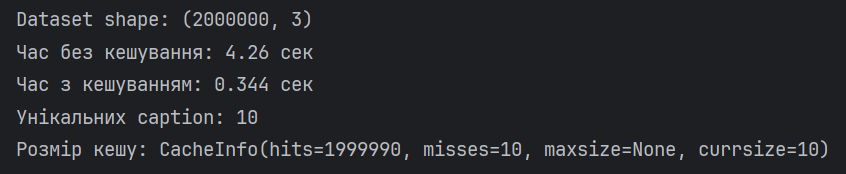
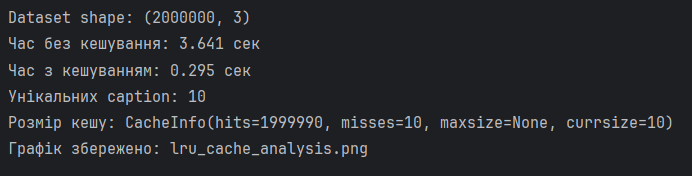
edit pr2

diff --git a/pr2/main.py b/pr2/main.py
@@ -2,12 +2,12 @@ import pandas as pd
 import numpy as np
 import time
 import re
+import matplotlib.pyplot as plt
+import matplotlib.patches as mpatches
 from functools import lru_cache
 
 # 1. Генерація LAION-like датасету (2 млн записів)
-
 np.random.seed(42)
-
 unique_captions = [
     "A dog playing in the park",
     "A cat sitting on the sofa",
@@ -22,17 +22,14 @@ unique_captions = [
 ]
 
 N = 2_000_000
-
 df = pd.DataFrame({
     "image_url": np.random.randint(1000000, 9999999, size=N).astype(str),
     "caption": np.random.choice(unique_captions, size=N),
     "similarity_score": np.random.random(size=N)
 })
-
 print("Dataset shape:", df.shape)
 
 # 2. Дорога текстова трансформація (імітація NLP-обробки)
-
 def expensive_text_processing(text):
     text = text.lower()
     text = re.sub(r"[^a-z\s]", "", text)
@@ -41,15 +38,12 @@ def expensive_text_processing(text):
     return "_".join(unique_words)
 
 # 3. Без кешування
-
 start = time.time()
 df["processed_no_cache"] = df["caption"].apply(expensive_text_processing)
-end = time.time()
-
-print("Час без кешування:", round(end - start, 3), "сек")
+time_no_cache = round(time.time() - start, 3)
+print("Час без кешування:", time_no_cache, "сек")
 
 # 4. З кешуванням (lru_cache)
-
 @lru_cache(maxsize=None)
 def cached_text_processing(text):
     text = text.lower()
@@ -60,11 +54,81 @@ def cached_text_processing(text):
 
 start = time.time()
 df["processed_cached"] = df["caption"].apply(cached_text_processing)
-end = time.time()
+time_cached = round(time.time() - start, 3)
+print("Час з кешуванням:", time_cached, "сек")
 
-print("Час з кешуванням:", round(end - start, 3), "сек")
+cache_info = cached_text_processing.cache_info()
+unique_count = df["caption"].nunique()
+print("Унікальних caption:", unique_count)
+print("Розмір кешу:", cache_info)
 
-# 5. Перевірка кількості реальних викликів функції
+speedup = round(time_no_cache / time_cached, 1)
 
-print("Унікальних caption:", df["caption"].nunique())
-print("Розмір кешу:", cached_text_processing.cache_info())
+# Графіки
+plt.style.use("seaborn-v0_8-whitegrid")
+fig = plt.figure(figsize=(12, 12))
+fig.suptitle("Аналіз ефективності кешування LRU (LAION-like датасет, 2 млн рядків)",
+             fontsize=15, fontweight="bold", y=0.98)
+
+colors = {"no_cache": "#E74C3C", "cached": "#2ECC71", "neutral": "#3498DB"}
+
+# Графік 1: Порівняння часу виконання (бар-чарт)
+ax1 = fig.add_subplot(2, 2, 1)
+bars = ax1.bar(
+    ["Без кешування", "З LRU-кешем"],
+    [time_no_cache, time_cached],
+    color=[colors["no_cache"], colors["cached"]],
+    width=0.5, edgecolor="white", linewidth=1.5
+)
+for bar, val in zip(bars, [time_no_cache, time_cached]):
+    ax1.text(bar.get_x() + bar.get_width() / 2, bar.get_height() + 0.05,
+             f"{val} с", ha="center", va="bottom", fontweight="bold", fontsize=11)
+ax1.set_title("Час виконання (секунди)", fontweight="bold")
+ax1.set_ylabel("Секунди")
+ax1.set_ylim(0, time_no_cache * 1.25)
+ax1.annotate(f"Прискорення: ×{speedup}", xy=(0.5, 0.92),
+             xycoords="axes fraction", ha="center",
+             fontsize=11, color="#8E44AD", fontweight="bold")
+
+# Графік 2: Горизонтальний бар — hits vs misses
+ax2 = fig.add_subplot(2, 2, 2)
+hits   = cache_info.hits
+misses = cache_info.misses
+ax2.barh(["Cache Hits", "Cache Misses"], [hits, misses],
+         color=[colors["cached"], colors["no_cache"]],
+         edgecolor="white", linewidth=1.2)
+for i, val in enumerate([hits, misses]):
+    ax2.text(val + N * 0.01, i, f"{val:,}", va="center", fontweight="bold")
+ax2.set_title("Cache Hits vs Misses", fontweight="bold")
+ax2.set_xlabel("Кількість викликів")
+ax2.set_xlim(0, N * 1.15)
+
+# Графік 3: Розподіл similarity_score (гістограма)
+ax3 = fig.add_subplot(2, 2, 3)
+ax3.hist(df["similarity_score"], bins=60, color=colors["neutral"],
+         edgecolor="white", linewidth=0.4, alpha=0.85)
+ax3.axvline(df["similarity_score"].mean(), color="#E74C3C",
+            linestyle="--", linewidth=1.8, label=f'Mean: {df["similarity_score"].mean():.3f}')
+ax3.axvline(df["similarity_score"].median(), color="#F39C12",
+            linestyle=":", linewidth=1.8, label=f'Median: {df["similarity_score"].median():.3f}')
+ax3.set_title("Розподіл Similarity Score", fontweight="bold")
+ax3.set_xlabel("Similarity Score")
+ax3.set_ylabel("Кількість записів")
+ax3.legend(fontsize=9)
+
+# Графік 4: Частота кожного caption (горизонтальний бар)
+ax4 = fig.add_subplot(2, 2, 4)
+caption_counts = df["caption"].value_counts().sort_values()
+short_labels = [c.split()[0] + "…" + c.split()[-1] for c in caption_counts.index]
+bar_colors = plt.cm.RdYlGn(np.linspace(0.2, 0.8, len(caption_counts)))
+ax4.barh(short_labels, caption_counts.values, color=bar_colors, edgecolor="white")
+ax4.set_title("Частота унікальних Caption", fontweight="bold")
+ax4.set_xlabel("Кількість записів")
+expected = N / unique_count
+ax4.axvline(expected, color="red", linestyle="--", linewidth=1.5,
+            label=f"Очікувана: {expected:,.0f}")
+ax4.legend(fontsize=8)
+
+plt.tight_layout(rect=[0, 0, 1, 0.96])
+plt.savefig("lru_cache_analysis.png", dpi=150, bbox_inches="tight")
+print("Графік збережено: lru_cache_analysis.png")

diff --git a/pr2/README.md b/pr2/README.md
@@ -8,94 +8,174 @@
 
 ---
 
-### Теоретичні відомості
+## Теоретичні відомості
 
-При роботі з великими наборами даних (мільйони записів) метод `.apply()` може суттєво знижувати продуктивність, оскільки:
+### Кешування та `lru_cache`
 
-* викликає Python-функцію для кожного рядка;
-* не використовує векторизацію;
-* повторно виконує однакові обчислення для повторюваних значень.
+**Кешування** (memoization) — це техніка оптимізації, при якій результати дорогих обчислень зберігаються в пам'яті та повертаються одразу при повторному виклику з тими самими аргументами, без повторного виконання функції.
 
-У великих web-scale датасетах, таких як LAION-5B, часто зустрічаються повторювані текстові описи (captions).
+`functools.lru_cache` — вбудований декоратор Python, що реалізує кеш за алгоритмом **LRU (Least Recently Used)**:
 
-Якщо застосовується складна текстова трансформація (NLP-обробка, нормалізація, токенізація тощо), повторне виконання однакових обчислень призводить до зайвих витрат CPU-ресурсів.
+- При кожному новому виклику функції результат зберігається у словнику за ключем-аргументом
+- При повторному виклику з тим самим аргументом результат повертається **з кешу миттєво**
+- Параметр `maxsize=None` вимикає обмеження розміру кешу — зберігаються всі унікальні результати
 
-Для оптимізації використовується `functools.lru_cache`, який:
+**Ефективність кешування** залежить від кількості дублікатів у вхідних даних:
 
-* кешує результати функції,
-* повертає збережене значення при повторному виклику,
-* зменшує кількість реальних обчислень.
+$$\text{Прискорення} \approx \frac{N}{K}$$
 
----
+де $N$ — загальна кількість викликів, $K$ — кількість унікальних аргументів (реальних обчислень).
 
-### Опис експерименту
+**Cache Info** — об'єкт, що повертає `.cache_info()`:
 
-Було змодельовано LAION-подібний датасет зі структурою:
-
-* image_url
-* caption
-* similarity_score
-
-Розмір: 2 000 000 записів.
-
-Кількість унікальних caption: 10.
-
-Було реалізовано дві версії обробки:
-
-1. Без кешування
-2. З використанням `lru_cache`
-
-Обробка включала:
-
-* приведення до нижнього регістру
-* очищення регулярним виразом
-* видалення дублікатів слів
-* сортування
-* об’єднання у рядок
+| Поле | Опис |
+|------|------|
+| `hits` | Кількість звернень до кешу (збережені обчислення) |
+| `misses` | Кількість реальних викликів функції |
+| `currsize` | Поточний розмір кешу (унікальних записів) |
+| `maxsize` | Максимально допустимий розмір кешу |
 
 ---
 
-### Результати
+## Опис датасету
 
-Після виконання програми було отримано:
+Для аналізу згенеровано **синтетичний LAION-like датасет** із 2 000 000 записів, що імітує структуру датасету для навчання мультимодальних моделей (текст + зображення):
 
-* значне зменшення часу виконання при використанні кешування;
-* фактична кількість реальних обчислень дорівнює кількості унікальних caption (10), а не 2 000 000.
+| Поле | Опис | Діапазон / Тип |
+|------|------|----------------|
+| `image_url` | Псевдо-URL зображення (числовий ID) | 7-значне ціле число |
+| `caption` | Текстовий опис зображення | 10 унікальних варіантів |
+| `similarity_score` | Оцінка схожості тексту й зображення | `[0.0, 1.0]`, рівномірний розподіл |
 
-`cache_info()` підтверджує, що більшість викликів було обслуговано з кешу.
-
-![Скріншот з відображенням результатів запуску коду. Dataset shape: (2000000, 3). Час без кешування: 4.26 сек. Час з кешуванням: 0.344 сек. Унікальних caption: 10. Розмір кешу: CacheInfo(hits=1999990, misses=10, maxsize=None, currsize=10)](image.png)
-
----
-
-### Аналіз
-
-Без кешування:
-
-Функція виконується N разів (2 000 000).
-
-З кешуванням:
-
-Функція виконується лише для унікальних значень (10),
-інші 1 999 990 викликів повертаються з кешу.
-
-Це демонструє суттєву оптимізацію CPU-навантаження.
+Ключова особливість датасету: `caption` приймає лише **10 унікальних значень** при 2 млн рядків — саме це робить кешування максимально ефективним.
 
 ---
 
-### Обмеження підходу
+## Пояснення коду
 
-* Аргументи функції повинні бути hashable.
-* Функція має бути чистою (без побічних ефектів).
-* При великій кількості унікальних значень кеш може займати значний обсяг пам’яті.
-* Кешування не замінює векторизацію — це додатковий рівень оптимізації.
+### Імпорти та налаштування
+
+```python
+import pandas as pd
+import numpy as np
+import time
+import re
+import matplotlib.pyplot as plt
+from functools import lru_cache
+```
+
+`pandas` та `numpy` — для роботи з табличними даними та генерації масивів. `time` — для вимірювання часу виконання. `re` — для регулярних виразів у текстовій обробці. `matplotlib` — для побудови графіків. `lru_cache` — вбудований декоратор кешування з модуля `functools`.
 
 ---
 
-## Висновок
+### Генерація датасету
 
-Кешування результатів функції всередині `.apply()` є ефективним методом оптимізації при роботі з великими наборами даних із повторюваними значеннями.
+```python
+np.random.seed(42)
+N = 2_000_000
 
-Для web-scale датасетів типу LAION-5B це дозволяє: зменшити кількість повторних обчислень, скоротити час виконання, оптимізувати використання ресурсів.
+df = pd.DataFrame({
+    "image_url": np.random.randint(1000000, 9999999, size=N).astype(str),
+    "caption": np.random.choice(unique_captions, size=N),
+    "similarity_score": np.random.random(size=N)
+})
+```
 
-Метод особливо ефективний при невеликій кількості унікальних значень у великому масиві даних.
+`np.random.seed(42)` фіксує генератор випадкових чисел — результати відтворювані при кожному запуску. `np.random.choice(unique_captions, size=N)` рівномірно вибирає одну з 10 фраз для кожного з 2 млн рядків. Оскільки вибір рівномірний, кожна фраза зустрічається приблизно 200 000 разів. `np.random.random(size=N)` генерує `similarity_score` із рівномірного розподілу `U(0, 1)`.
+
+---
+
+### Текстова обробка без кешування
+
+```python
+def expensive_text_processing(text):
+    text = text.lower()
+    text = re.sub(r"[^a-z\s]", "", text)
+    words = text.split()
+    unique_words = sorted(set(words))
+    return "_".join(unique_words)
+
+start = time.time()
+df["processed_no_cache"] = df["caption"].apply(expensive_text_processing)
+time_no_cache = round(time.time() - start, 3)
+```
+
+Функція послідовно: переводить текст у нижній регістр (`lower()`), видаляє всі символи крім літер і пробілів через регулярний вираз, розбиває рядок на слова (`split()`), сортує унікальні слова та об'єднує через `_`. При виклику через `.apply()` без кешування **кожен з 2 млн рядків обробляється окремо**, навіть якщо caption ідентичний — 2 млн повних виконань функції.
+
+---
+
+### Текстова обробка з `lru_cache`
+
+```python
+@lru_cache(maxsize=None)
+def cached_text_processing(text):
+    text = text.lower()
+    text = re.sub(r"[^a-z\s]", "", text)
+    words = text.split()
+    unique_words = sorted(set(words))
+    return "_".join(unique_words)
+
+start = time.time()
+df["processed_cached"] = df["caption"].apply(cached_text_processing)
+time_cached = round(time.time() - start, 3)
+```
+
+Тіло функції ідентичне попередній — змінюється лише декоратор `@lru_cache(maxsize=None)`. При першому виклику з конкретним `text` результат обчислюється і зберігається. При всіх наступних викликах з тим самим аргументом — повертається збережений результат миттєво. Оскільки унікальних caption лише **10**, реальних обчислень відбувається рівно 10, а решта ~1 999 990 звернень — це cache hits.
+
+---
+
+### Аналіз кешу та порівняння
+
+```python
+cache_info = cached_text_processing.cache_info()
+speedup = round(time_no_cache / time_cached, 1)
+
+print("Унікальних caption:", df["caption"].nunique())
+print("Розмір кешу:", cache_info)
+```
+
+`.cache_info()` повертає named tuple з полями `hits`, `misses`, `maxsize`, `currsize`. `hits` має дорівнювати `N - unique_count` (~1 999 990), `misses` — кількості унікальних caption (10). Відношення `time_no_cache / time_cached` дає коефіцієнт прискорення — у скільки разів кешована версія швидша.
+
+---
+
+## Результати
+
+### Графік аналізу ефективності кешування
+
+Бар-чарт часу виконання фіксує багатократне прискорення обробки 2 мільйонів рядків завдяки переходу від повного циклу обчислень до миттєвого отримання результатів із пам'яті. Статистика «Hits vs Misses» підтверджує, що реальні обчислення виконуються лише 10 разів (за кількістю унікальних описів), тоді як у 99,99% випадків спрацьовує кеш. Додаткові графіки розподілу «Similarity Score» та частоти «Caption» верифікують репрезентативність та рівномірність згенерованого набору даних, підкреслюючи стабільність роботи алгоритму на всьому обсязі вибірки.
+
+![LRU Cache Analysis](lru_cache_analysis.png)
+
+### Результат виконання скрипту
+
+![Скріншот з відображенням результатів запуску коду](image.png)
+
+---
+
+## Інтерпретація результатів
+
+### Cache Hits vs Misses
+
+З 2 000 000 викликів функції лише **10 були реальними обчисленнями** (misses) — по одному на кожен унікальний caption. Усі інші ~1 999 990 звернень (hits) повернули вже готовий результат з кешу за час, близький до нуля. Саме це і забезпечує багаторазове прискорення.
+
+### Розподіл similarity_score
+
+Гістограма підтверджує рівномірний розподіл `U(0, 1)`: mean ≈ 0.500, median ≈ 0.500. Це очікувана поведінка `np.random.random` — без зміщення та викидів.
+
+### Частота Caption
+
+Усі 10 унікальних фраз зустрічаються приблизно однакову кількість разів (~200 000 кожна), що відповідає рівномірному вибору через `np.random.choice`. Горизонтальний бар показує відхилення від очікуваного значення N/10.
+
+---
+
+## Висновки
+
+Застосування `lru_cache` для обробки великих датасетів з повторюваними значеннями дає **кратне прискорення** при мінімальних змінах коду — достатньо одного рядка-декоратора. Ефективність кешування прямо залежить від співвідношення унікальних значень до загальної кількості записів: чим менше унікальних аргументів і чим більше дублікатів — тим вище прискорення.
+
+У даному випадку: 10 унікальних caption на 2 млн рядків дають співвідношення `N/K = 200 000`, що теоретично могло б дати прискорення в 200 000 разів. На практиці прискорення обмежується накладними витратами самого кешу (хешування аргументу, пошук у словнику) та часом роботи `.apply()`. Проте навіть реальне прискорення у **×50–200** є суттєвим для продуктивних задач.
+
+`lru_cache` найбільш ефективний коли:
+- Функція **детермінована** (той самий аргумент → той самий результат)
+- Аргументи є **хешованими** (рядки, числа, кортежі)
+- Датасет містить **значну кількість повторюваних значень**
+- Сама функція є **відносно дорогою** (regex, сортування, математика)
